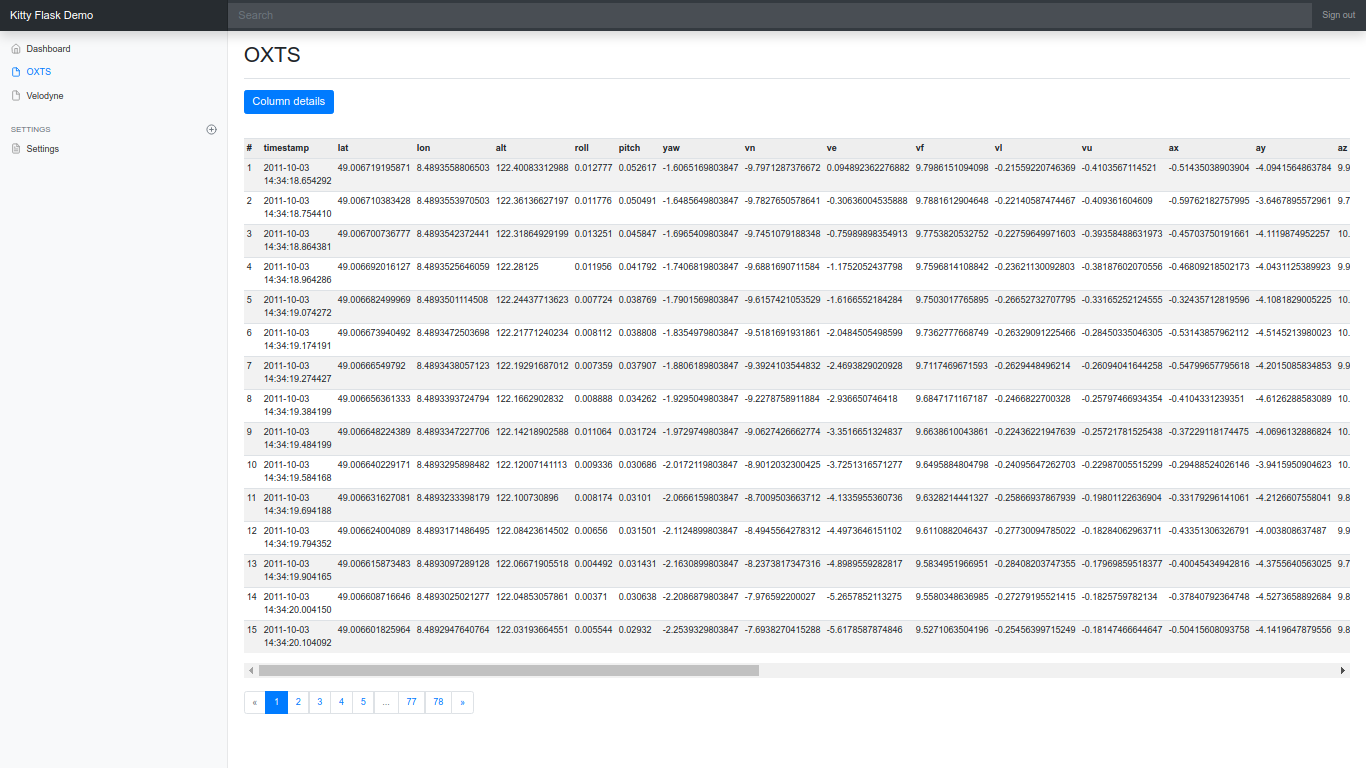
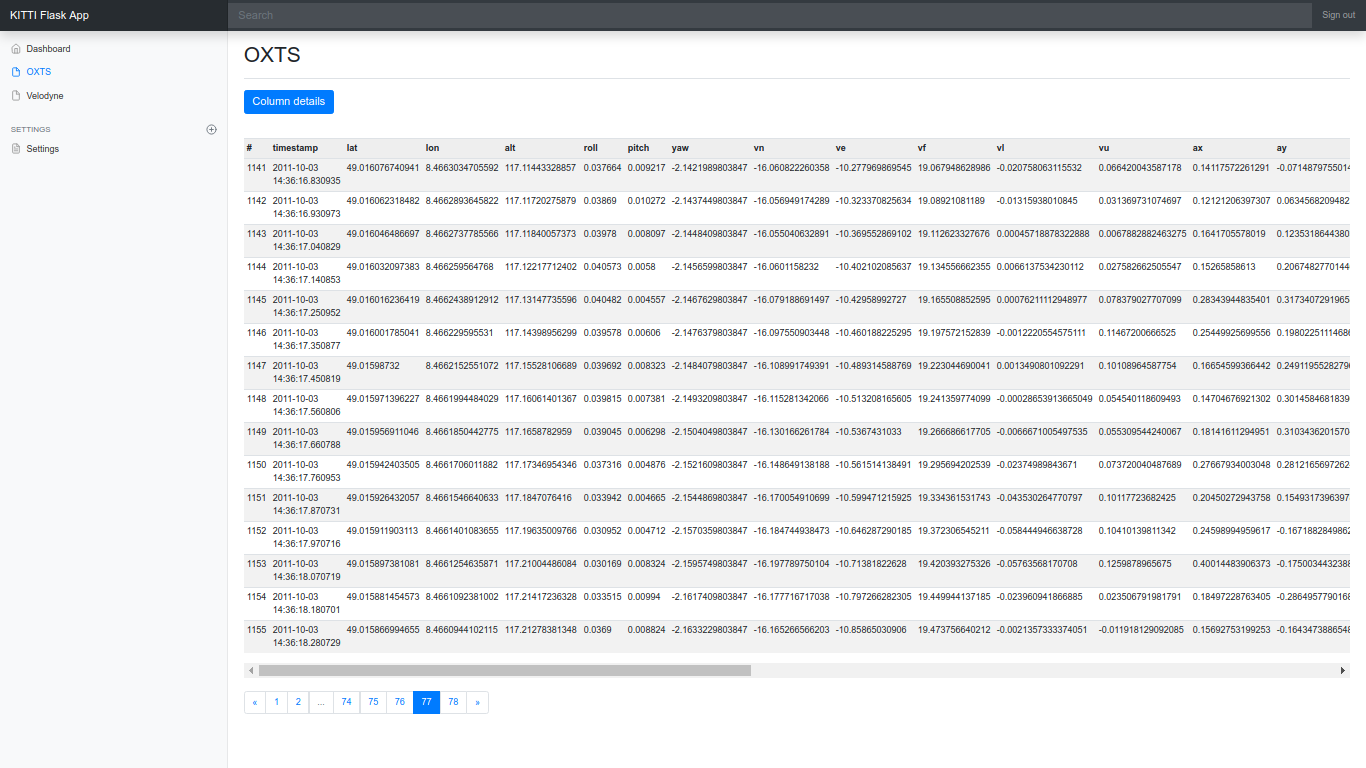
Fix typo

diff --git a/config.py b/config.py
@@ -4,9 +4,9 @@ from os import environ
 from os.path import abspath, dirname, join
 from time import strftime
 
-__title__ = "Kitty Flask Demo"
-__short_title__ = "kitty"
-__description__ = ""
+__title__ = "KITTI Flask App"
+__short_title__ = "flaskapp"
+__description__ = "KITTI Flask demo application"
 __version__ = (0, 1, 2, 191121)
 
 version = '.'.join(map(str, __version__))

diff --git a/README.md b/README.md
@@ -1,4 +1,4 @@
-# Flask KITTI Demo
+# KITTI Flask demo application
 
 
 ### Screenshot
